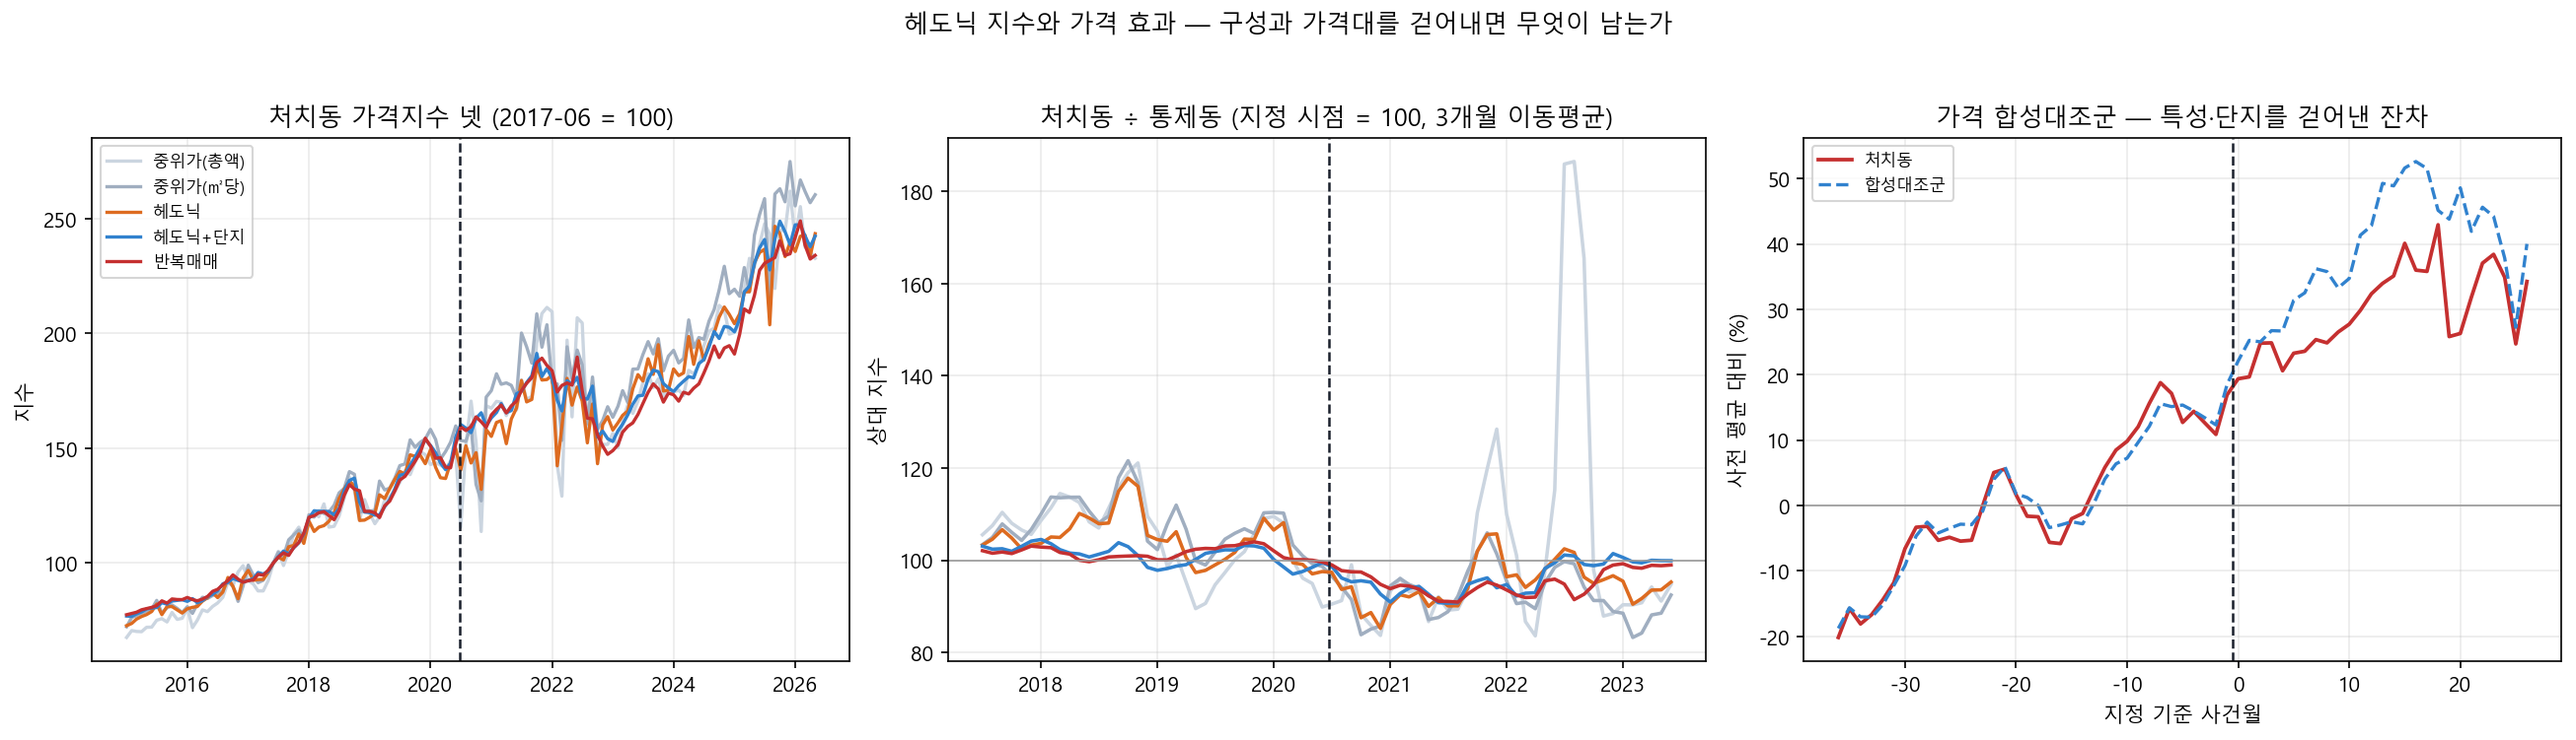
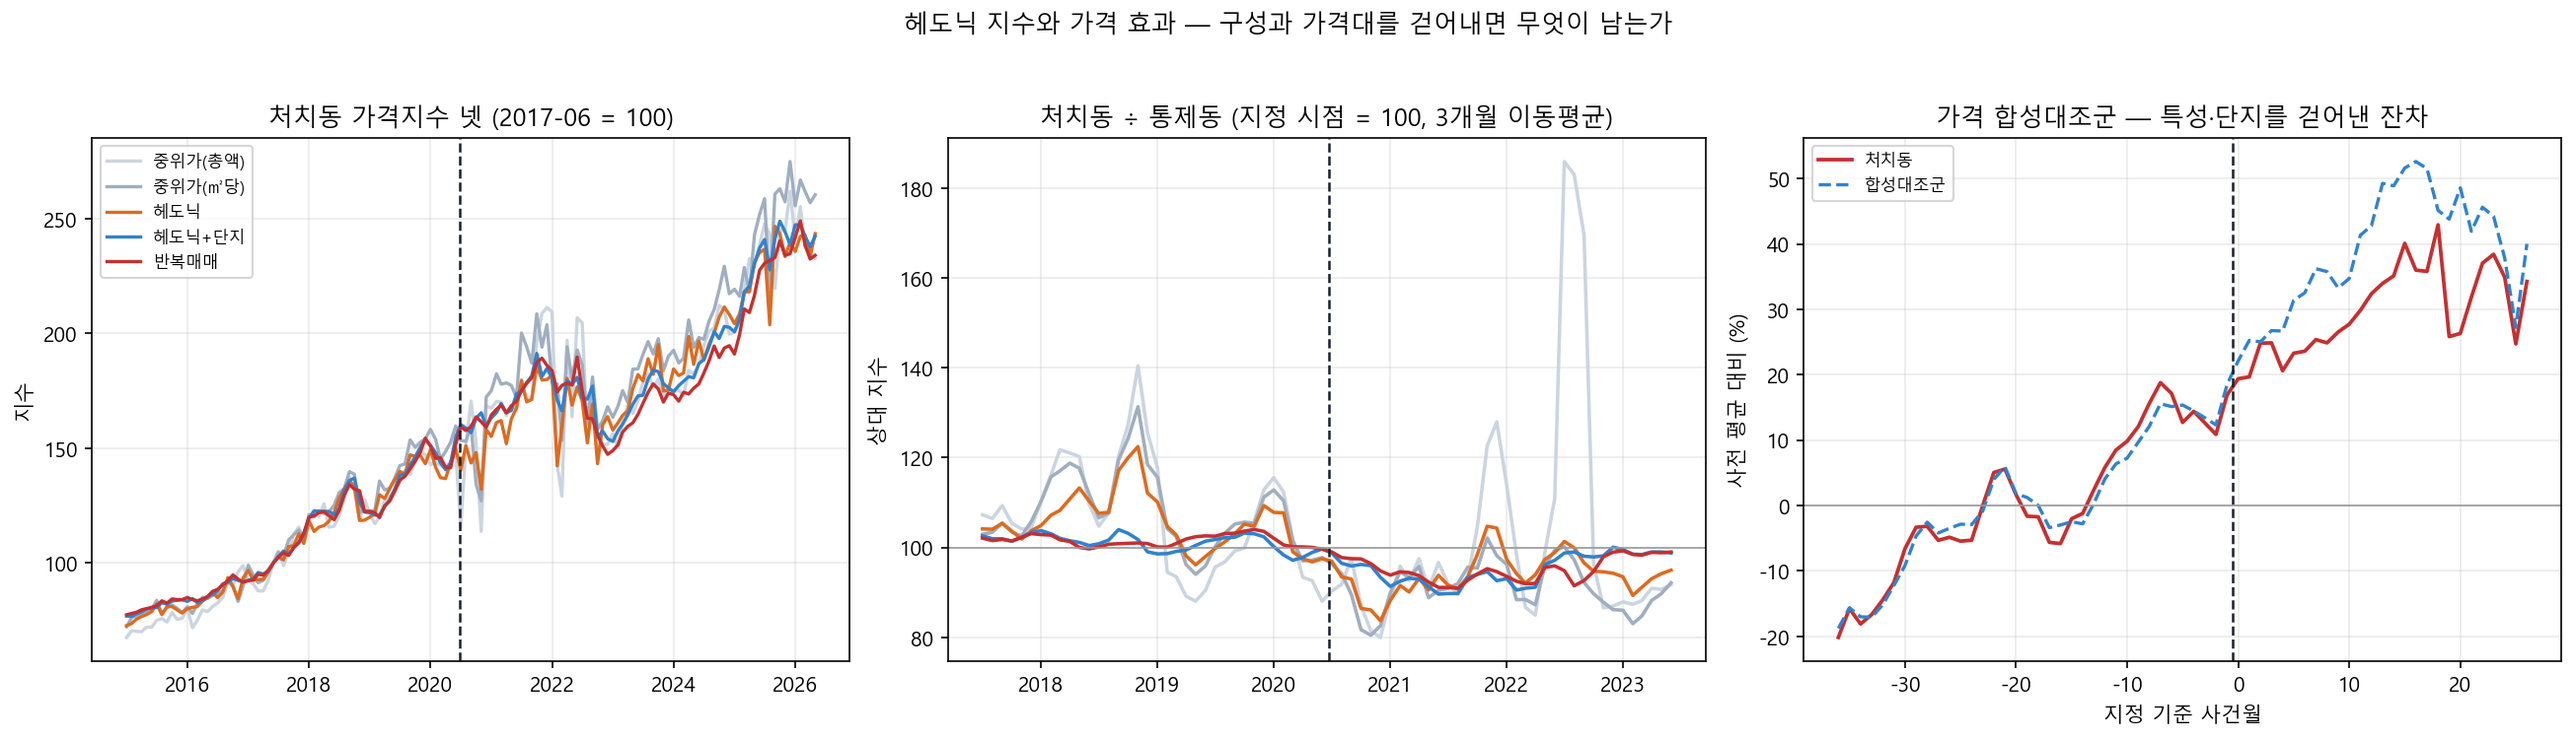
8번 점검에서 나온 것 세 가지 정정
(1) '17개 구' 라벨을 층마다 가려 적었다. 층 2 의 기준점은 25 - 2 - 4 = 19개 구,
층 3 의 기준점은 25 - 4 - 4 = 17개 구로 서로 다른 집단이다. 어제 한 번에
바꾸면서 층 3 까지 19 로 만들었던 것을 되돌리고, 스크립트에 주석을 달았다.

(2) 지수끼리 견주려면 통제동 집합이 같아야 한다. 07(반복매매)의 통제동은
강남·송파 비처치 전부인데 08 은 오염 6개를 빼고 있었다. 08 의 지수 사다리를
07 에 맞추고, 오염을 뺀 값을 점검 줄로 따로 낸다.
헤도닉+단지 -5.9% 대 반복매매 -6.0% (오염 제외 시 -5.8%).

(3) 나머지 지수 값도 통제동이 바뀌어 갱신 — 총액 -10.1%, ㎡당 -12.5%,
헤도닉 -11.1%.

코드/이름 혼동은 다른 스크립트에는 없었다(01·02·check_contamination·
extract_zones 전부 확인).

diff --git a/docs/reports/week-04.html b/docs/reports/week-04.html
@@ -529,7 +529,7 @@ figcaption{font-size:13px; color:var(--ink-3); margin-top:8px; line-height:1.55}
 <tr>
 <td>파급 · 옆 구 (인접 4개 구)</td>
 <td>+23.0% (p=0.157)</td>
-<td>대 먼 19개 구, 재지정 전후</td>
+<td>대 먼 17개 구(강남3구·용산과 인접 4개 구를 뺀), 재지정 전후</td>
 </tr>
 <tr>
 <td>2020 지정 거래량 (서울 기준)</td>

diff --git a/scripts/12_spillover.py b/scripts/12_spillover.py
@@ -226,6 +226,8 @@ def main() -> None:
     print("=" * 92)
     d3 = d.copy()
     bad3 = designated(REDESIG - pd.DateOffset(months=6), REDESIG + pd.DateOffset(months=3))
+    # 층 3 의 기준점은 25 − 4(강남3구·용산) − 4(인접) = 17개 구다.
+    # 층 2 의 R4(19개 구)와 다른 집단이니 이름을 섞지 말 것.
     g3 = pd.Series("먼 17개 구", index=d3.index)
     g3[d3.sgg_nm.isin(SGG_NEAR)] = "인접 4개 구"
     g3[d3.sgg_nm.isin(SGG_2025)] = "새로 규제"
@@ -260,7 +262,7 @@ def main() -> None:
     ladder = []
     steps = [("1. 기준점 = 처치동 (선행연구의 시선)", w, RINGS[0]),
              ("2. 기준점 = 강남·송파 비인접 동", w, RINGS[2]),
-             ("3. 기준점 = 나머지 17개 구", w, BASE_RING),
+             ("3. 기준점 = 나머지 19개 구", w, BASE_RING),
              ("4. 3 + 가격대 공통지지", band, BASE_RING)]
     for lab, s, ctl in steps:
         r = both(s, RINGS[1], ctl, "고리", "em", -PRE, POST - 1)
@@ -272,7 +274,7 @@ def main() -> None:
     print("\n  처치동으로 같은 사다리")
     lad0 = []
     for lab, s, ctl in [("1. 기준점 = 강남·송파 비인접 동", w, RINGS[2]),
-                        ("2. 기준점 = 나머지 17개 구", w, BASE_RING),
+                        ("2. 기준점 = 나머지 19개 구", w, BASE_RING),
                         ("3. 2 + 가격대 공통지지", band, BASE_RING)]:
         r = both(s, RINGS[0], ctl, "고리", "em", -PRE, POST - 1)
         lad0.append({"단계": lab, "기준점": ctl, **r})
@@ -299,7 +301,7 @@ def main() -> None:
                 ms=4, label=rg)
     ax.axhline(0, color="#999", lw=.8)
     ax.axvline(-0.5, color="#1a202c", ls="--", lw=1.2)
-    ax.set_title("거래량 — 나머지 17개 구 대비 (사전 = 0)")
+    ax.set_title("거래량 — 나머지 19개 구 대비 (사전 = 0)")
     ax.set_xlabel("지정 기준 분기")
     ax.set_ylabel("단지당 거래의 상대 변화 (%)")
     ax.legend(fontsize=8)
@@ -318,7 +320,7 @@ def main() -> None:
         ax.plot(m.index, 100 * m[rg], "o-", color=c, lw=1.7, ms=4, label=rg)
     ax.axhline(0, color="#999", lw=.8)
     ax.axvline(-0.5, color="#1a202c", ls="--", lw=1.2)
-    ax.set_title("가격 — 같은 단지 안의 변화, 17개 구 대비")
+    ax.set_title("가격 — 같은 단지 안의 변화, 19개 구 대비")
     ax.set_xlabel("지정 기준 분기")
     ax.set_ylabel("log ㎡당가 차이 (%)")
     ax.grid(alpha=.25)

diff --git a/scripts/08_hedonic.py b/scripts/08_hedonic.py
@@ -143,8 +143,12 @@ def main() -> None:
     print("=" * 88)
     rs = pd.read_csv(io.PROCESSED / "rs_index.csv", encoding="utf-8-sig")
     rs = rs.set_index("연월")
+    # 반복매매지수(07)의 통제동은 강남·송파 비처치 **전부**다. 지수끼리 견주려면
+    # 같은 동 집합이어야 하므로 여기서도 오염 6개를 빼지 않는다.
+    # 오염을 뺀 사양은 아래에서 따로 낸다(2절의 이중차분은 0020 대로 뺀다).
+    control_rs = gs[~gs.처치]
     idx = {}
-    for name, sub in (("처치동", treated), ("통제동", control)):
+    for name, sub in (("처치동", treated), ("통제동", control_rs)):
         idx[(name, "중위가(총액)")] = median_index(sub, "amount_manwon")
         idx[(name, "중위가(㎡당)")] = median_index(sub, "price_per_m2")
         idx[(name, "헤도닉")] = hedonic_index(sub, unit_fe=False)
@@ -191,7 +195,17 @@ def main() -> None:
                     "변화_pct": round(100 * (b / a - 1), 1)})
         print(f"  {k:<14}{a:>13.3f}{b:>13.3f}{100 * (b / a - 1):>9.1f}%")
     out["지수_사다리"] = lad
-    print("  네 지수가 같은 방향이면 구성 변화가 결론을 만들지 않았다는 뜻이다")
+    print("  다섯 지수가 같은 방향이면 구성 변화가 결론을 만들지 않았다는 뜻이다")
+
+    # 오염 6개 동을 뺀 통제동으로 헤도닉+단지만 다시 — 07 과의 동 집합 차이 점검
+    h2 = hedonic_index(control, unit_fe=True)
+    t2 = tab[("처치동", "헤도닉+단지")]
+    a2 = float((t2.reindex(pre_m) / h2.reindex(pre_m)).mean())
+    b2 = float((t2.reindex(post_m) / h2.reindex(post_m)).mean())
+    ex = round(100 * (b2 / a2 - 1), 1)
+    print(f"  (점검) 통제동에서 오염 6개 동을 빼면 헤도닉+단지는 {ex:+.1f}% — "
+          f"위 표의 {lad[3]['변화_pct']:+.1f}% 와 견줄 것")
+    out["지수_사다리_오염제외"] = {"헤도닉+단지_pct": ex}
 
     # ==================================================================
     print("\n" + "=" * 88)

diff --git a/docs/backlog.md b/docs/backlog.md
@@ -125,7 +125,7 @@
 | 7 | 자체 가격지수 구축 (반복매매) | **완료** | 1 | 강남·송파 79,675쌍(보유 180일 이상). 월 245개 시점, 쌍 10개 미만인 달 0. 구성 변화가 실제로 잡힘 — 2020-09 중위가 170.5 vs 반복매매 159.4 (0018) |
 | 9 | 2025.2 해제 → 3 재지정 삼중차분 | **완료** | 2 | **주 사건을 해제에서 재지정으로 바꿨다** — 해제창에는 안 움직인 비교군이 없다(비처치 4개 구도 2.8배 상승). 재지정 −78.9%(유지군 대비, PPML), 발표~효력 나흘 막차 5배 뒤 절벽. **0022 의 사전 예측 적중**: 소형 효과가 2020 +126% → 2025 −72%. 세 번째 축은 재건축이 아니라 전용면적 (0023). 원래 계획: 하이라이트, 재건축 여부를 세 번째 축으로 |
 | 12 | 파급효과 분해 (동일 동 내) | **완료** | 9 | 세 층으로 나눴다. **같은 동 안에만 파급이 있다** — 유지군 −26.5%. 옆 동 −9~−19%(음수), 옆 구 +23%(비유의). 선행연구의 '인근 급등'은 기준점이 만든 말 — 처치동 기준이면 +115.5%, 서울 기준이면 −9.0% (0024) |
-| 8 | 자체 가격지수 구축 (헤도닉) | **완료** | 7 | **헤도닉+단지 −5.8%, 반복매매 −6.0% 로 맞는다.** 0018 의 11포인트 중 10.5포인트는 '총액 → ㎡당가' 하나. 통제 격자 여덟 칸이 −2.1 ~ −10.7%, 중심은 −4~−7%. 0024 의 −2.1% 는 특성 통제를 뺀 칸이었다. 가격 합성대조군은 점추정 −5.1% 지만 경험적 p 0.511 (0025) |
+| 8 | 자체 가격지수 구축 (헤도닉) | **완료** | 7 | **헤도닉+단지 −5.9%, 반복매매 −6.0% 로 맞는다.** 0018 의 11포인트 중 10.5포인트는 '총액 → ㎡당가' 하나. 통제 격자 여덟 칸이 −2.1 ~ −10.7%, 중심은 −4~−7%. 0024 의 −2.1% 는 특성 통제를 뺀 칸이었다. 가격 합성대조군은 점추정 −5.1% 지만 경험적 p 0.511 (0025) |
 | 10 | dCDH 추정량 적용 (처치 역전) | 대기 | 9 | 비흡수 처치. Callaway–Sant'Anna 는 부적합. 0023 의 집단 정의를 그대로 쓴다 |
 | 11 | Honest DiD (사전추세 민감도) | 대기 | 6b | 가격 효과의 강건 구간. **0025 가 남긴 절반** — 구성과 가격대는 걷어냈고 사전 추세가 남았다 |
 | 6g | 면적 면제 검증 | **완료** | 6f | 2022-06-23 강화에 처치동 소형만 −33% (WCR 0.023, 무작위 0.001), 대형 변화 없음. 2021 위약은 0. **이질성의 주원인은 면적 기준** (0022). 첫 삼중차분 설계는 위약 실패 → 크기별 이중차분으로. 원래 계획: 2020 지정은 대지 18㎡ 초과만 허가 대상. (a) 소형(40㎡ 미만) 대 나머지 삼중차분 + 0019 추론. (b) **2022-06 기준 강화(18→6㎡)** 를 사건으로 — 처치동 소형만 새로 처치가 걸린다. 대출로는 이 시점을 설명 못 하므로 두 가설을 가르는 가장 깨끗한 검정 (0021) |

diff --git a/docs/decisions/0025-가격효과-범위.md b/docs/decisions/0025-가격효과-범위.md
@@ -54,14 +54,16 @@
 
 | 지수 | 변화 |
 |---|---|
-| 중위가 (총액) | −9.1% |
-| 중위가 (㎡당) | −12.2% |
-| 헤도닉 | −9.9% |
-| **헤도닉 + 단지** | **−5.8%** |
+| 중위가 (총액) | −10.1% |
+| 중위가 (㎡당) | −12.5% |
+| 헤도닉 | −11.1% |
+| **헤도닉 + 단지** | **−5.9%** |
 | **반복매매** | **−6.0%** |
 
-**헤도닉+단지와 반복매매가 −5.8% 와 −6.0% 로 맞는다.** 한쪽은 모든 거래를 쓰고
-특성으로 맞추며, 다른 쪽은 같은 집만 본다. 자료도 가정도 다른 두 방법이 같은
+**헤도닉+단지와 반복매매가 −5.9% 와 −6.0% 로 맞는다.** 한쪽은 모든 거래를 쓰고
+특성으로 맞추며, 다른 쪽은 같은 집만 본다. **통제동 집합은 07 과 맞춰 강남·송파
+비처치 전부로 두었다** — 지수끼리 견주려면 같은 동이어야 한다. 오염 6개 동을
+빼면 헤도닉+단지가 −5.8% 로 0.1%포인트 움직인다. 자료도 가정도 다른 두 방법이 같은
 숫자를 낸다는 것은 구성 변화가 결론을 만들지 않았다는 뜻이다.
 
 ### 0018 의 11포인트를 분해했다
@@ -118,7 +120,7 @@
 
 **1. 가격 효과를 −4 ~ −7% 범위로 보고한다.** 여덟 칸 중 가격대를 맞춘 네 칸이
 −2.1 ~ −5.9%, 맞추지 않은 네 칸이 −5.5 ~ −10.7% 다. 통제군과 가격대를 함께
-고려한 중심은 −4 ~ −7% 이고, 여기에 헤도닉+단지(−5.8%)·반복매매(−6.0%)·
+고려한 중심은 −4 ~ −7% 이고, 여기에 헤도닉+단지(−5.9%)·반복매매(−6.0%)·
 합성대조군 점추정(−5.1%)이 모두 들어온다.
 
 **2. 그래도 인과로 단정하지 않는다.** [[0001-주결과변수-거래량]] 의 판단을 뒤집지
@@ -143,7 +145,7 @@
 추세는 백로그 11(Honest DiD)이 받는다.
 
 **0018 을 떠받친다.** 반복매매지수가 선택편의 때문에 틀렸을 가능성을 헤도닉이
-독립적으로 배제했다. 두 지수가 −5.8% 와 −6.0% 로 맞는다.
+독립적으로 배제했다. 두 지수가 −5.9% 와 −6.0% 로 맞는다.
 
 **앞으로 쓸 곳.**
 

diff --git a/docs/framing.md b/docs/framing.md
@@ -26,7 +26,7 @@
 | **언제까지** 갔나 | 일시 충격인지 시장이 계속 얼어붙었는지에 따라 정책의 비용이 다르다 | 24개월 평균 −25 ~ −38% (범위). 장기는 자료로 말할 수 없음 | 0014 · 0016 · 0020 |
 | **누구에게** 달랐나 | 규제 설계의 어느 부분이 실제로 작동했는지 | 허가 대상 면적 기준(대지 18㎡)이 회피 통로였다. 대출은 주원인이 아님. **2025 재지정(6㎡)에서는 소형도 −72% — 사전 예측 적중** | 0015 · 0021 · 0022 · 0023 |
 | **어디로** 번졌나 | 규제 밖 단지로 수요가 옮겨 가면 규제는 문제를 옮긴 것일 뿐 | **같은 동 안에만 번졌다.** 규제가 유지된 단지 −26.5%. 옆 동은 음수, 옆 구는 비유의 | 0024 |
-| **가격은** 잡혔나 | 토허제의 명분은 가격 안정 | **−4 ~ −7% 범위.** 헤도닉과 반복매매가 −5.8%·−6.0% 로 맞는다. 다만 사전 추세가 있고 합성대조군으로는 확인되지 않아 인과로 단정 못 함 | 0001 · 0018 · 0024 · 0025 |
+| **가격은** 잡혔나 | 토허제의 명분은 가격 안정 | **−4 ~ −7% 범위.** 헤도닉과 반복매매가 −5.9%·−6.0% 로 맞는다. 다만 사전 추세가 있고 합성대조군으로는 확인되지 않아 인과로 단정 못 함 | 0001 · 0018 · 0024 · 0025 |
 
 **마지막 줄이 이 연구의 뼈대다.** 제안서의 첫 질문(RQ1)이기도 하다.
 

diff --git a/docs/decisions/0024-파급효과-기준점.md b/docs/decisions/0024-파급효과-기준점.md
@@ -78,7 +78,7 @@ R2 −6.7%, R3 −14.3% 로 전부 음수다. 거래가 옆 동으로 옮겨 간
 
 ### 층 3 — 옆 구는 방향만
 
-2025-03-24 재지정, 강남3구·용산이 막혔다. 기준점은 먼 19개 구다.
+2025-03-24 재지정, 강남3구·용산이 막혔다. 기준점은 먼 17개 구다(25 − 4 − 4).
 
 | 집단 | 배수 | 거래량 | 가격 |
 |---|---|---|---|
@@ -162,6 +162,8 @@ R2 −6.7%, R3 −14.3% 로 전부 음수다. 거래가 옆 동으로 옮겨 간
 맞닿지도 않으므로 통제군으로 쓰는 것 자체는 맞다 — 오히려 가격대가 가장 비슷한
 동들이라 공통지지에서 중요하다. **수치는 그대로이고 이름만 틀렸다**
 ([[0025-가격효과-범위]]).
+
+층 3 의 기준점은 이와 다른 집단이다 — 25 − 4(강남3구·용산) − 4(인접) = **17개 구**로 맞다.
 
 가격 결과도 [[0025-가격효과-범위]] 가 이어받았다. 여기서 −2.1%(p=0.270)로 적은
 것은 여덟 칸 격자의 한 칸이며, 면적·층을 통제하지 않은 칸이다. 같은 표본에

diff --git a/docs/reports/week-04.md b/docs/reports/week-04.md
@@ -200,7 +200,7 @@
 | 2025 재지정 · 소형 | **−71.5%** | 같은 사양 |
 | 파급 · 같은 동 안 (유지군) | **−26.5%** | 대 먼 통제군, 해제 전 13주 사후 5주 |
 | 파급 · 옆 동 (맞닿은 11개 동) | −9.0% ~ −19.0% | 대 나머지 19개 구, 2020 지정 ±12개월 |
-| 파급 · 옆 구 (인접 4개 구) | +23.0% (p=0.157) | 대 먼 19개 구, 재지정 전후 |
+| 파급 · 옆 구 (인접 4개 구) | +23.0% (p=0.157) | 대 먼 17개 구(강남3구·용산과 인접 4개 구를 뺀), 재지정 전후 |
 | 2020 지정 거래량 (서울 기준) | −57.8% ~ **−63.7%** | 대 나머지 19개 구 / 가격대 공통지지 |
 | 2020 지정 가격 (서울 기준) | −9.7% → **−2.1%** (비유의) | 전체 표본 → 가격대 공통지지 |
 

diff --git a/docs/glossary.md b/docs/glossary.md
@@ -417,7 +417,7 @@ SUTVA(Stable Unit Treatment Value Assumption): **한 단위의 처치가 다른 
 | 기준점 | 맞닿은 동의 효과 |
 |---|---|
 | 처치동 | **+115.5%** — '인근 급등' |
-| 서울 나머지 17개 구 | **−9.0%** — 옆 동도 줄었다 |
+| 서울 나머지 19개 구 | **−9.0%** — 옆 동도 줄었다 |
 
 둘 다 맞는 계산이다. 첫 줄이 커 보이는 것은 옆 동이 늘어서가 아니라 처치동이
 58% 줄어서다. 옆 동은 가만히 있어도 상대적으로 두 배가 된다.
